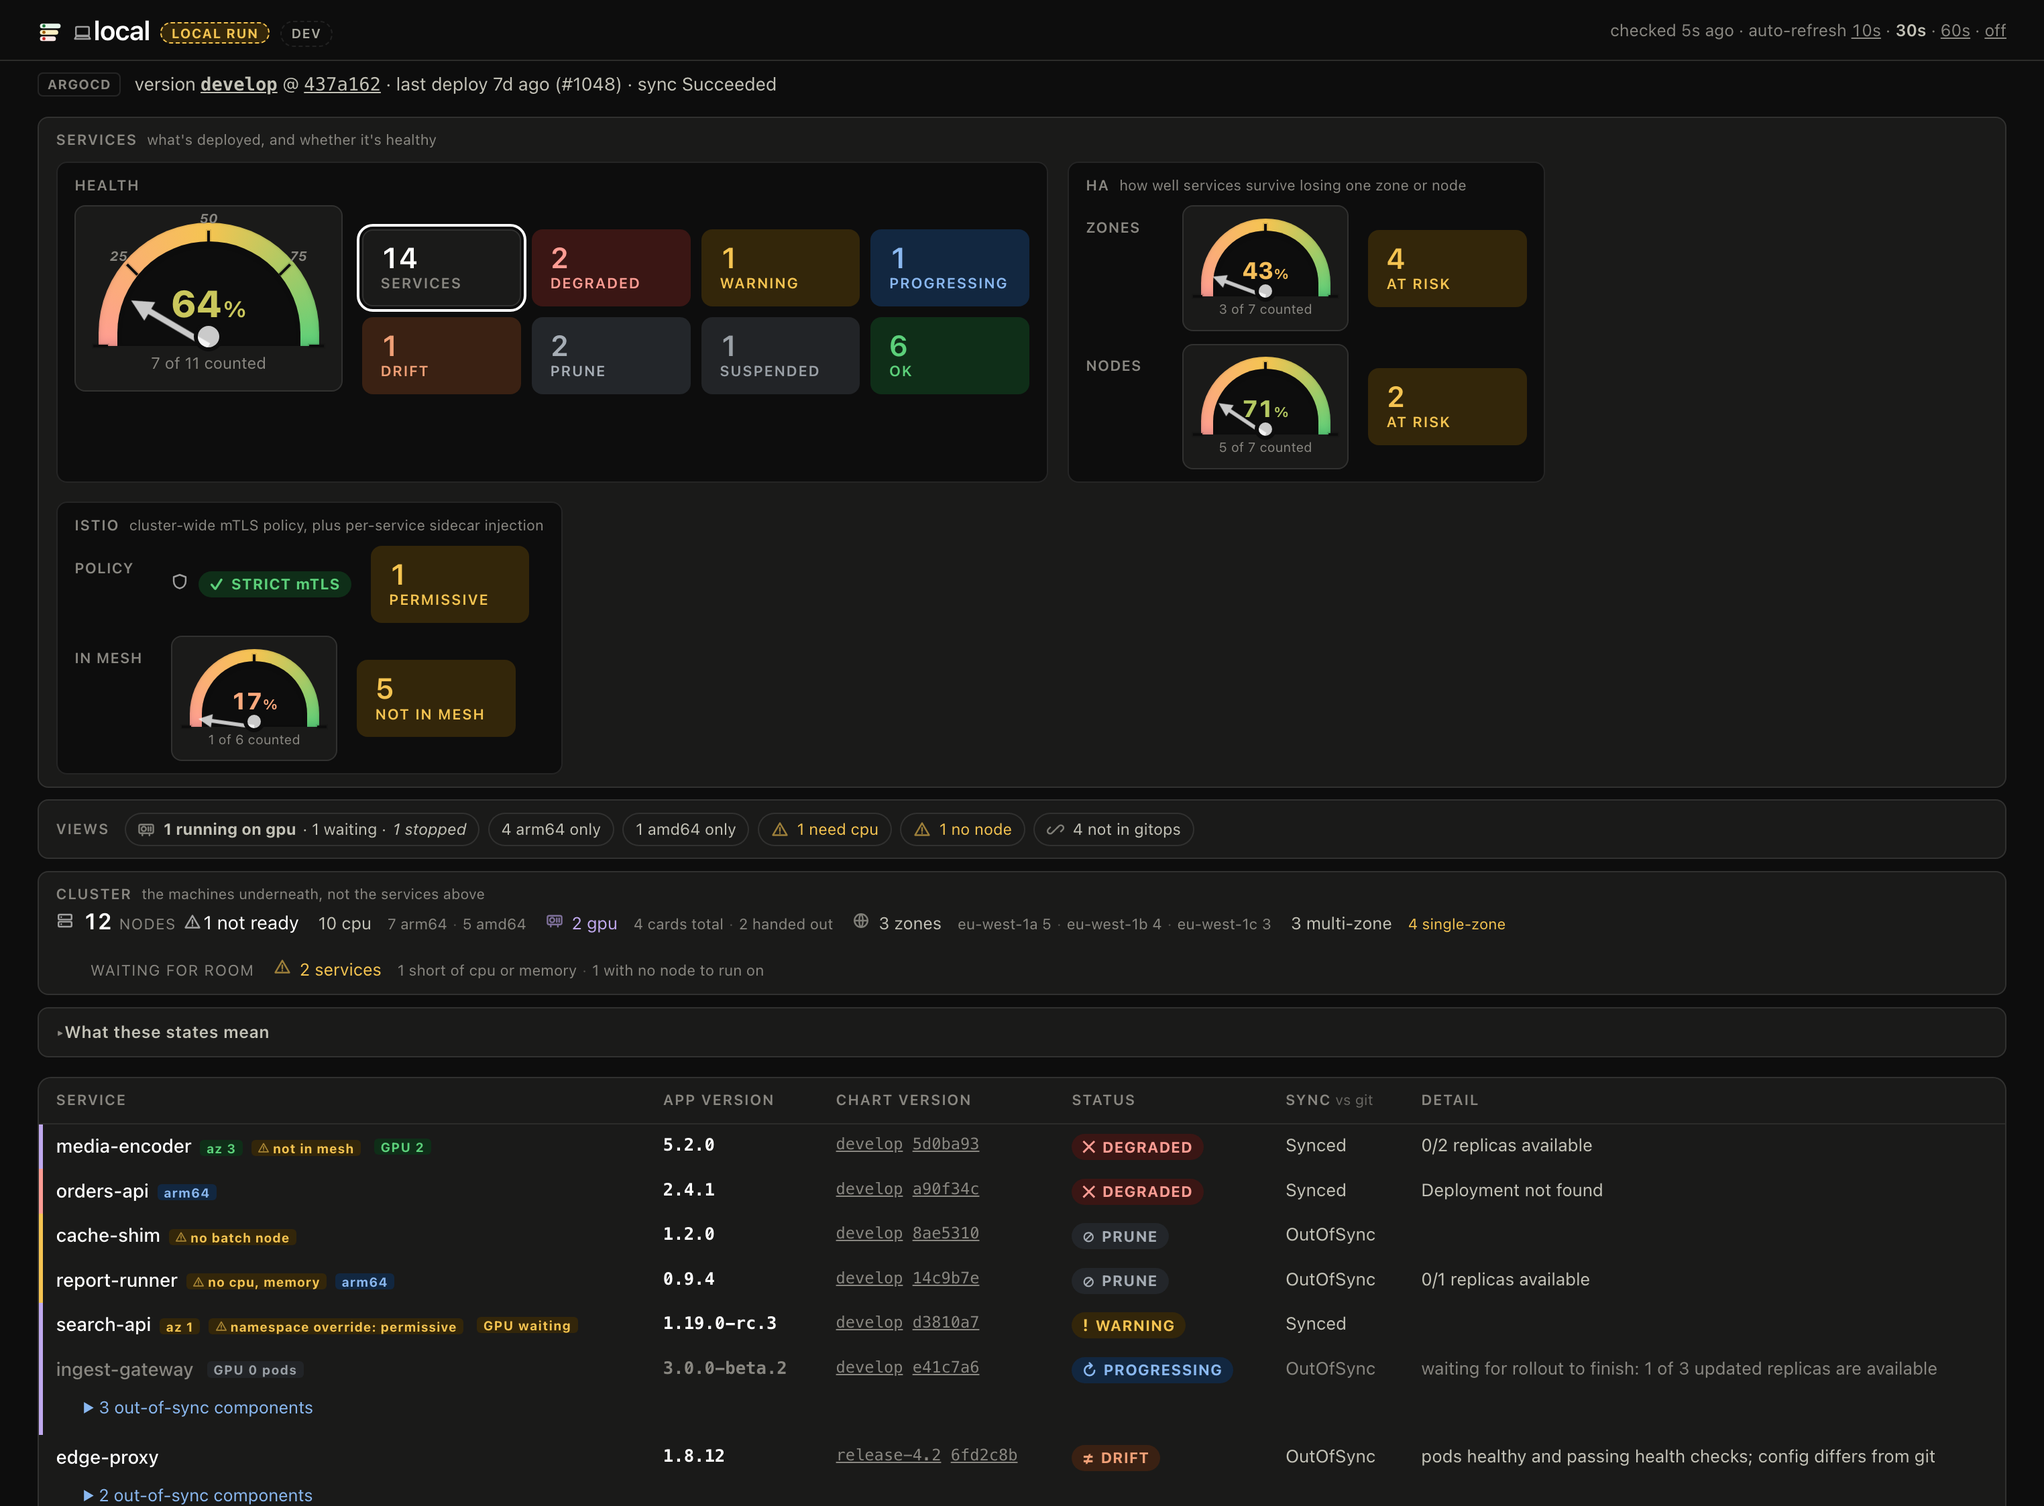
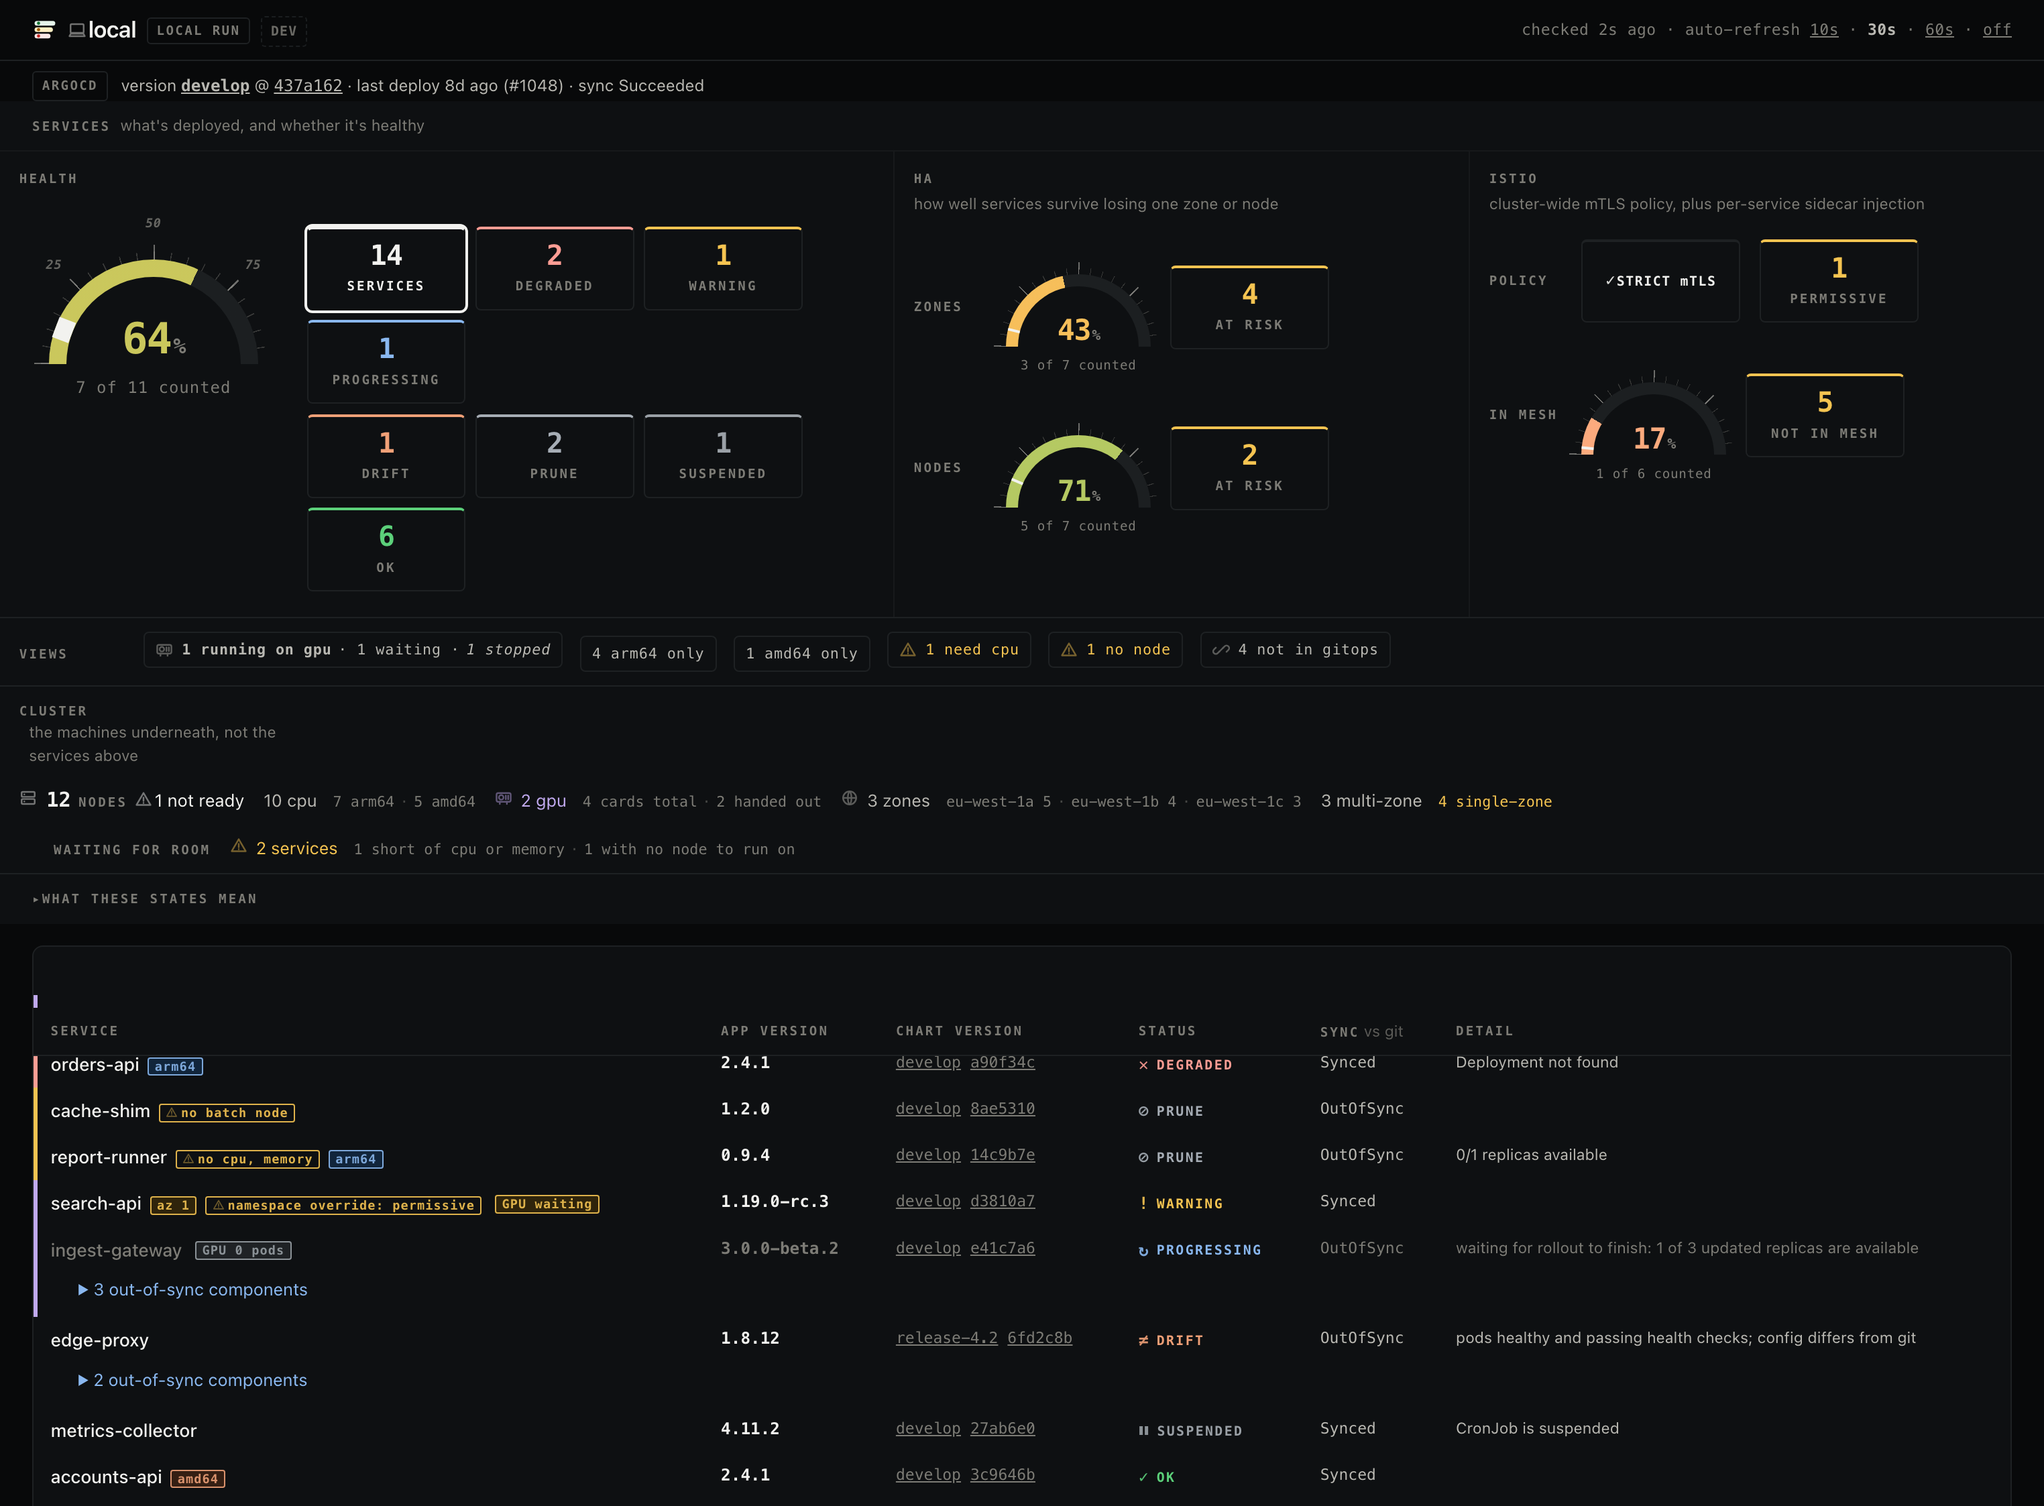
style: instrument refresh -- one coherent console-style sheet
Applied via apply-instrument-refresh.sh: flattens the panel/area/
gauge-card nesting into one sheet divided by hairlines, moves colour
onto numerals/arcs/a 3px row rule only, and puts every data value in
mono/tabular-nums. A generated override layer (marked block, replaced
wholesale on re-run) rather than a template rewrite -- no class or
markup change underneath it.

Includes a centering fix on top: .tile had no align-items, so its
column flex stretched the number/label to the box's full width and
left-aligned the text; the Policy pill (.area .cap-lead .pill) set
text-align: left explicitly. Both now center, matching every other
tile in the row.

diff --git a/internal/web/templates/index.html b/internal/web/templates/index.html
@@ -477,6 +477,298 @@ footer { margin-top: 1.6rem; color: var(--muted); font-size: .72rem; }
   .hide-sm { display: none; }
   body { padding: var(--pad-top) var(--pad-x) 3rem; }
 }
+/* >>> instrument refresh (generated) >>> */
+/* ── instrument v2 — one coherent sheet over the stock one ───────────────
+   Three moves: (1) flatten the panel → area → gauge-card nesting to a single
+   card divided by hairlines, (2) colour lives only on numerals, arcs and a 3px
+   row rule, (3) all data is mono, all labels are 10px/.16em, all prose is
+   system-ui. Nothing below adds a class or touches the template. */
+:root {
+  --plane:#f7f7f5; --surface:#ffffff; --sunken:#fbfaf8;
+  --hair:#e6e5df;  --hair-2:#f0efe9;  --ring:#e6e5df; --track:#e9e8e1;
+  --ink:#101112;   --ink-2:#4a4b4d;   --muted:#8d8c86;
+  --warn-arc:#c98a12;
+  --mono: ui-monospace, SFMono-Regular, Menlo, Consolas, monospace;
+  --pad-x:1.5rem;
+}
+@media (prefers-color-scheme: dark) {
+  :root {
+    --plane:#08090a; --surface:#0e1012; --sunken:#0a0b0c;
+    --hair:#1e2123;  --hair-2:#17191b; --ring:#1e2123; --track:#1c1f21;
+    --ink:#f2f2ef;   --ink-2:#b9b8b2;  --muted:#7d7c76;
+    --warn-arc:#f5c451;
+  }
+}
+
+body { background: var(--plane); font-size: 13px; line-height: 1.5; }
+header { background: var(--plane); border-bottom: 1px solid var(--hair); }
+h1 { font-size: 1.05rem; letter-spacing: -.015em; }
+.meta, .badge, .runmode, .src-tag { font-family: var(--mono); }
+.meta { font-size: .72rem; letter-spacing: .02em; }
+.badge, .runmode, .src-tag {
+  border-radius: 3px; font-size: .6rem; letter-spacing: .12em; padding: .2rem .4rem;
+  background: transparent; border: 1px solid var(--hair); color: var(--muted);
+}
+.runmode { border-style: solid; }
+
+/* Every micro-label, one voice. */
+.tile .k, .cap-head, .views-lab, .spread-lab, .cap-lead .ck, .cap-of .ck, thead th,
+.kind, .legend > summary, .sec-head {
+  font-family: var(--mono); font-size: .6rem; font-weight: 700;
+  letter-spacing: .16em; text-transform: uppercase; color: var(--muted);
+}
+.cap-head .cap-sub, .sec-head .sec-sub, .hdr-sub {
+  font-family: system-ui, sans-serif; font-size: .72rem; font-weight: 400;
+  letter-spacing: 0; text-transform: none; color: var(--muted);
+}
+/* Every number, mono and tabular. */
+.tile .n, .cap-item .cv, .cap-lead .cv, .gauge .hd-num, .appver, .chartver, .ready,
+.sync, .meta, .members { font-family: var(--mono); font-variant-numeric: tabular-nums; }
+
+/* One console sheet, not five floating cards. Views / Cluster / legend were each a
+   rounded box wrapping a single thin row — five competing containers for four facts.
+   They become bands of one continuous sheet, separated by hairlines. */
+.panel, .views, .capacity, .legend {
+  background: var(--surface); border: 0; border-radius: 0;
+  border-top: 1px solid var(--hair); margin: 0 calc(-1 * var(--pad-x));
+  padding: .7rem var(--pad-x);
+}
+.panel-row { margin: 0 0 0 0; gap: 0; }
+.panel { padding: 0; flex: 1 1 100%; min-width: 0; border-top: 0; }
+.panel > .cap-head, .panel > div:first-child.cap-head {
+  padding: .6rem var(--pad-x); border-bottom: 1px solid var(--hair-2);
+}
+.card { background: var(--surface); border: 1px solid var(--hair); border-radius: 8px; }
+/* A fixed label rail down the left, so every band starts on the same column. */
+.views, .capacity { display: flex; align-items: baseline; gap: .8rem; flex-wrap: nowrap; }
+.views-lab, .capacity > .cap-head {
+  flex: none; width: 5rem; margin: 0; padding-top: .12rem;
+}
+.capacity > .cap-head .cap-sub { display: block; width: 12rem; }
+.capacity { flex-wrap: wrap; }
+.capacity > .cap-row, .capacity > .cap-note { flex: 1 1 24rem; margin-top: 0; }
+.views { flex-wrap: wrap; }
+
+/* Flatten: the three areas share one card, divided by a hairline instead of each
+   being its own rounded box inside a rounded box inside a rounded box. */
+.areas { display: flex; gap: 0; margin: 0; flex-wrap: wrap; }
+.area {
+  background: transparent; border: 0; border-radius: 0;
+  padding: .85rem .9rem; min-width: 0; flex: 1 1 21rem;
+}
+.areas > .area:first-child { flex: 2 1 30rem; }
+.area + .area { border-left: 1px solid var(--hair-2); }
+/* Area heads sit on the same rail as the section labels below them. */
+.area > .cap-head { display: block; margin-bottom: .1rem; }
+.area > .cap-head .cap-sub { display: block; margin-left: 0; margin-top: .15rem; }
+/* Rows centre their cells; they do NOT stretch them. Stretching let the gauge's
+   height drive the tiles, so a 2-line tile grew into a 200px empty box. */
+.tiles-row, .ha-rows .tiles-row { align-items: center; margin-top: .55rem; }
+.tiles { gap: .45rem; }
+.spread-lab { align-self: center; margin-top: 0; width: 3.4rem; }
+
+/* Tiles: fixed cell, hairline box, 2px state rule. The stock .t-* rules set
+   border-color: transparent, so each one has to restate it. */
+/* One cell size for every box in the Health / HA / Istio rows — tiles and the Istio
+   policy box alike, so the four boxes in the Istio area match each other and the
+   AT RISK cells opposite them. */
+:root { --cell-h: 3.9rem; --cell-w: 7.4rem; }
+.tile {
+  flex: none; width: var(--cell-w); min-width: 0; height: var(--cell-h);
+  padding: .5rem .65rem;
+  background: var(--surface); border: 1px solid var(--hair);
+  border-top: 2px solid var(--hair); border-radius: 4px;
+  display: flex; flex-direction: column; justify-content: center;
+  align-items: center; text-align: center;
+}
+.tile .n { font-size: 1.3rem; font-weight: 700; letter-spacing: -.02em; }
+.tile .k { margin-top: .3rem; }
+.tile.t-total       { border-color: var(--hair); border-top-color: var(--ink); }
+.tile.t-ok          { background: var(--surface); border-color: var(--hair); border-top-color: var(--ok-fg); }
+.tile.t-degraded    { background: var(--surface); border-color: var(--hair); border-top-color: var(--deg-fg); }
+.tile.t-warning     { background: var(--surface); border-color: var(--hair); border-top-color: var(--warn-fg); }
+.tile.t-progressing { background: var(--surface); border-color: var(--hair); border-top-color: var(--prog-fg); }
+.tile.t-drift       { background: var(--surface); border-color: var(--hair); border-top-color: var(--drift-fg); }
+.tile.t-prune       { background: var(--surface); border-color: var(--hair); border-top-color: var(--prune-fg); }
+.tile.t-suspended   { background: var(--surface); border-color: var(--hair); border-top-color: var(--susp-fg); }
+.tile.t-ok .k, .tile.t-degraded .k, .tile.t-warning .k, .tile.t-progressing .k,
+.tile.t-drift .k, .tile.t-prune .k, .tile.t-suspended .k { color: var(--muted); }
+
+/* Gauge: an instrument, not a dial. No card, no tick marks, no 25/50/75 furniture,
+   no pivot hub — a track, a sweep to --pct, a slim marker and the number. */
+.gauge { background: transparent; border: 0; padding: 0; width: auto; gap: .3rem; }
+.gauge .hd-face {
+  position: relative; width: 108px; height: 54px; margin: 26px auto 0;
+  /* Own stacking context, so the z-index:-1 graduation layers below sit behind the
+     arc (a static in-flow child) but still in front of the face's own background. */
+  isolation: isolate;
+}
+.gauge.gauge-lg .hd-face { width: 156px; height: 78px; margin-top: 30px; }
+.gauge .hd-pivot { display: none; }
+/* Ticks, done properly: a fine graduation fringe drawn OUTSIDE the arc, so the ring
+   itself stays clean. Two layers — minor every 9°, major every 45° and longer — both
+   painted by the face's own pseudo-elements, which the arc then covers from the
+   inside. No extra markup: the stock .hd-tick <i> elements only carry the digits. */
+.gauge .hd-face::before, .gauge .hd-face::after {
+  content: ""; position: absolute; bottom: 0; border-radius: 999px 999px 0 0;
+  pointer-events: none;
+  /* Without this the fringe paints OVER .hd-arc — positioned descendants outrank an
+     in-flow static sibling — and the graduations stripe straight across the band. */
+  z-index: -1;
+}
+.gauge .hd-face::before {                       /* minor graduations */
+  left: -5px; right: -5px; top: -5px;
+  background: repeating-conic-gradient(from 270deg at 50% 100%,
+    var(--muted) 0 .55deg, transparent .55deg 9deg);
+  opacity: .38;
+}
+.gauge .hd-face::after {                        /* major graduations */
+  left: -9px; right: -9px; top: -9px;
+  background: repeating-conic-gradient(from 270deg at 50% 100%,
+    var(--ink-2) 0 .75deg, transparent .75deg 45deg);
+  opacity: .55;
+}
+.gauge.gauge-lg .hd-face::before { left: -6px; right: -6px; top: -6px; }
+.gauge.gauge-lg .hd-face::after  { left: -11px; right: -11px; top: -11px; }
+/* The stock tick <i> keeps only its digit; its own line is now the fringe's job. */
+.gauge .hd-tick { background: none; }
+.gauge .hd-tick::after { display: none; }
+.gauge .hd-scale {
+  top: -22px; font-family: var(--mono); font-size: .52rem; font-weight: 600;
+  letter-spacing: .04em; color: var(--muted); opacity: .8;
+}
+.gauge.gauge-lg .hd-scale { top: -26px; font-size: .58rem; }
+.gauge {
+  --seg1: clamp(0%, calc(var(--pct) * 2%), 100%);
+  --seg2: clamp(0%, calc((var(--pct) - 50) * 2%), 100%);
+  --arc: color-mix(in srgb,
+           color-mix(in srgb, var(--deg-fg), var(--warn-arc) var(--seg1)),
+           var(--ok-fg) var(--seg2));
+}
+.gauge .hd-arc {
+  border-radius: 999px 999px 0 0; box-shadow: none;
+  background: conic-gradient(from 270deg at 50% 100%,
+    var(--arc) 0deg calc(var(--pct) * 1.8deg),
+    var(--track) calc(var(--pct) * 1.8deg) 180deg);
+}
+.gauge .hd-mask {
+  left: 9px; right: 9px; top: 9px; border-radius: 999px 999px 0 0;
+  background: var(--surface); box-shadow: none;
+}
+.gauge.gauge-lg .hd-mask { left: 13px; right: 13px; top: 13px; }
+/* Marker: 2px, painted only where the arc band is, so it reads as a value tick
+   instead of an arrow sweeping over the number and off the card. */
+.gauge .hd-needle {
+  width: 2px; margin-left: -1px; height: 54px; clip-path: none; filter: none;
+  background: linear-gradient(to bottom, var(--ink) 0 9px, transparent 9px);
+}
+.gauge.gauge-lg .hd-needle {
+  height: 78px; background: linear-gradient(to bottom, var(--ink) 0 13px, transparent 13px);
+}
+.gauge .hd-num {
+  bottom: 1px; font-size: 1.35rem; font-weight: 700; letter-spacing: -.03em;
+  color: var(--arc);
+}
+.gauge.gauge-lg .hd-num { bottom: 3px; font-size: 2rem; }
+.gauge .hd-num small { font-size: .5em; color: var(--muted); margin-left: .1em; }
+.gauge .hd-cap { font-family: var(--mono); font-size: .6rem; letter-spacing: .04em; }
+.gauge.is-unknown { --arc: var(--muted); }
+.gauge.is-unknown .hd-arc { background: var(--track); }
+.gauge.is-unknown .hd-needle { background: none; }
+
+/* Views + cluster: hairline chips, no fills. */
+.views, .capacity { padding: .6rem .9rem; }
+.vchip, .chip {
+  background: transparent; border: 1px solid var(--hair); border-radius: 4px;
+  font-family: var(--mono); font-size: .68rem; letter-spacing: .04em;
+  padding: .28rem .5rem; color: var(--ink-2);
+}
+.vchip:hover { border-color: var(--ink-2); }
+.cap-item .cv, .cap-lead .cv { font-size: .95rem; font-weight: 700; }
+.cap-item .ck, .cap-split { font-family: var(--mono); font-size: .68rem; }
+.ic { opacity: .45; }
+
+/* Selection: a tight ring on the element. The stock outline + 2px offset reads as a
+   detached halo once everything is a flat bordered card. */
+.tile.is-on, a.cap-item.is-on, .vchip.is-on, .chips .chip {
+  outline: none; border-radius: 4px; box-shadow: 0 0 0 2px var(--ink);
+  border-color: transparent;
+}
+.tile.is-on { border-top-color: var(--ink); }
+.tile.is-on .n, .tile.is-on .k, a.cap-item.is-on .ck, .vchip.is-on { color: var(--ink); }
+.tile.is-on .k::after, a.cap-item.is-on .ck::after, .vchip.is-on::after {
+  margin-left: .4em; opacity: .55;
+}
+
+/* Table: 10px mono headers, hairline rows, a 3px state rule, no wash. */
+.card { overflow: hidden; margin-top: 1rem; }
+thead th {
+  background: var(--surface); padding: .55rem .8rem; border-bottom: 1px solid var(--hair);
+}
+thead th:first-child, thead th:last-child,
+tbody:last-of-type tr:last-child td:first-child,
+tbody:last-of-type tr:last-child td:last-child { border-radius: 0; }
+tbody td { padding: .45rem .8rem; border-top: 1px solid var(--hair-2); }
+tbody.svc:hover td { background: var(--sunken); }
+.name { font-weight: 500; font-size: .84rem; letter-spacing: -.005em; }
+.appver { font-size: .76rem; font-weight: 700; }
+.chartver, .sync, .detail { font-size: .72rem; }
+.detail { font-family: system-ui, sans-serif; color: var(--ink-2); }
+.svc.is-degraded td:first-child { box-shadow: inset 3px 0 0 var(--deg-fg); }
+.svc.is-warning  td:first-child { box-shadow: inset 3px 0 0 var(--warn-fg); }
+.svc.is-blocked  td:first-child { box-shadow: inset 3px 0 0 var(--warn-fg); }
+tbody.svc.is-gpu td:first-child { box-shadow: inset 3px 0 0 var(--gpu-fg); }
+
+/* Status: glyph + word, no capsule. */
+.pill {
+  padding: 0; border-radius: 0; background: transparent;
+  font-family: var(--mono); font-size: .62rem; letter-spacing: .12em;
+}
+.pill.s-ok, .pill.s-degraded, .pill.s-warning, .pill.s-progressing,
+.pill.s-drift, .pill.s-prune, .pill.s-suspended { background: transparent; }
+.pill .g { opacity: .9; }
+
+/* Inline badges: outline in their own colour, never a fill. */
+.blocked, .arch, .az, .gpu, .src, .members {
+  background: transparent; border: 1px solid currentColor; border-radius: 2px;
+  padding: .04rem .26rem; font-family: var(--mono); font-size: .58rem;
+  letter-spacing: .06em; opacity: .9;
+}
+.arch.is-arm64 { color: var(--prog-fg); }
+.arch.is-amd64 { color: var(--drift-fg); }
+.az.is-single  { color: var(--warn-fg); }
+.az.is-multi   { color: var(--ok-fg); }
+.gpu.is-waiting { color: var(--warn-fg); }
+.gpu.is-stopped { color: var(--susp-fg); }
+.gpu.is-running { color: var(--ok-fg); }
+.blocked { color: var(--warn-fg); }
+.blocked.is-accelerator { color: var(--gpu-fg); }
+.members, .src { color: var(--muted); }
+
+/* Istio's Policy row: a pill where its siblings have a gauge. Same cell as a tile,
+   with the mode wrapping onto two lines instead of forcing the box wide. */
+.area .cap-lead {
+  flex: none; width: var(--cell-w); height: var(--cell-h); box-sizing: border-box;
+  align-items: center; justify-content: center; gap: 0;
+  padding: .4rem .5rem; border: 1px solid var(--hair);
+  border-top: 2px solid var(--hair); border-radius: 4px; background: var(--surface);
+}
+.area .cap-lead .pill {
+  display: block; text-align: center; white-space: normal; word-break: break-word;
+  font-size: .62rem; line-height: 1.35; letter-spacing: .08em; color: var(--ink);
+}
+.area .cap-lead .ic, .area .cap-lead svg { display: none; }
+/* Gauges are cells too — same height, so a row reads as one band. */
+.tiles-row > .gauge { flex: none; }
+
+/* Legend + sections. */
+.legend { margin-bottom: 0; }
+.legend > summary { color: var(--muted); }
+.legend-row, .legend-note, .sub { font-size: .76rem; color: var(--ink-2); }
+.legend-kw { font-family: var(--mono); }
+.sec-head { margin: 1.6rem 0 -.1rem; }
+footer { font-family: var(--mono); font-size: .64rem; letter-spacing: .04em; }
+/* <<< instrument refresh (generated) <<< */
 </style>
 </head>
 <body>
